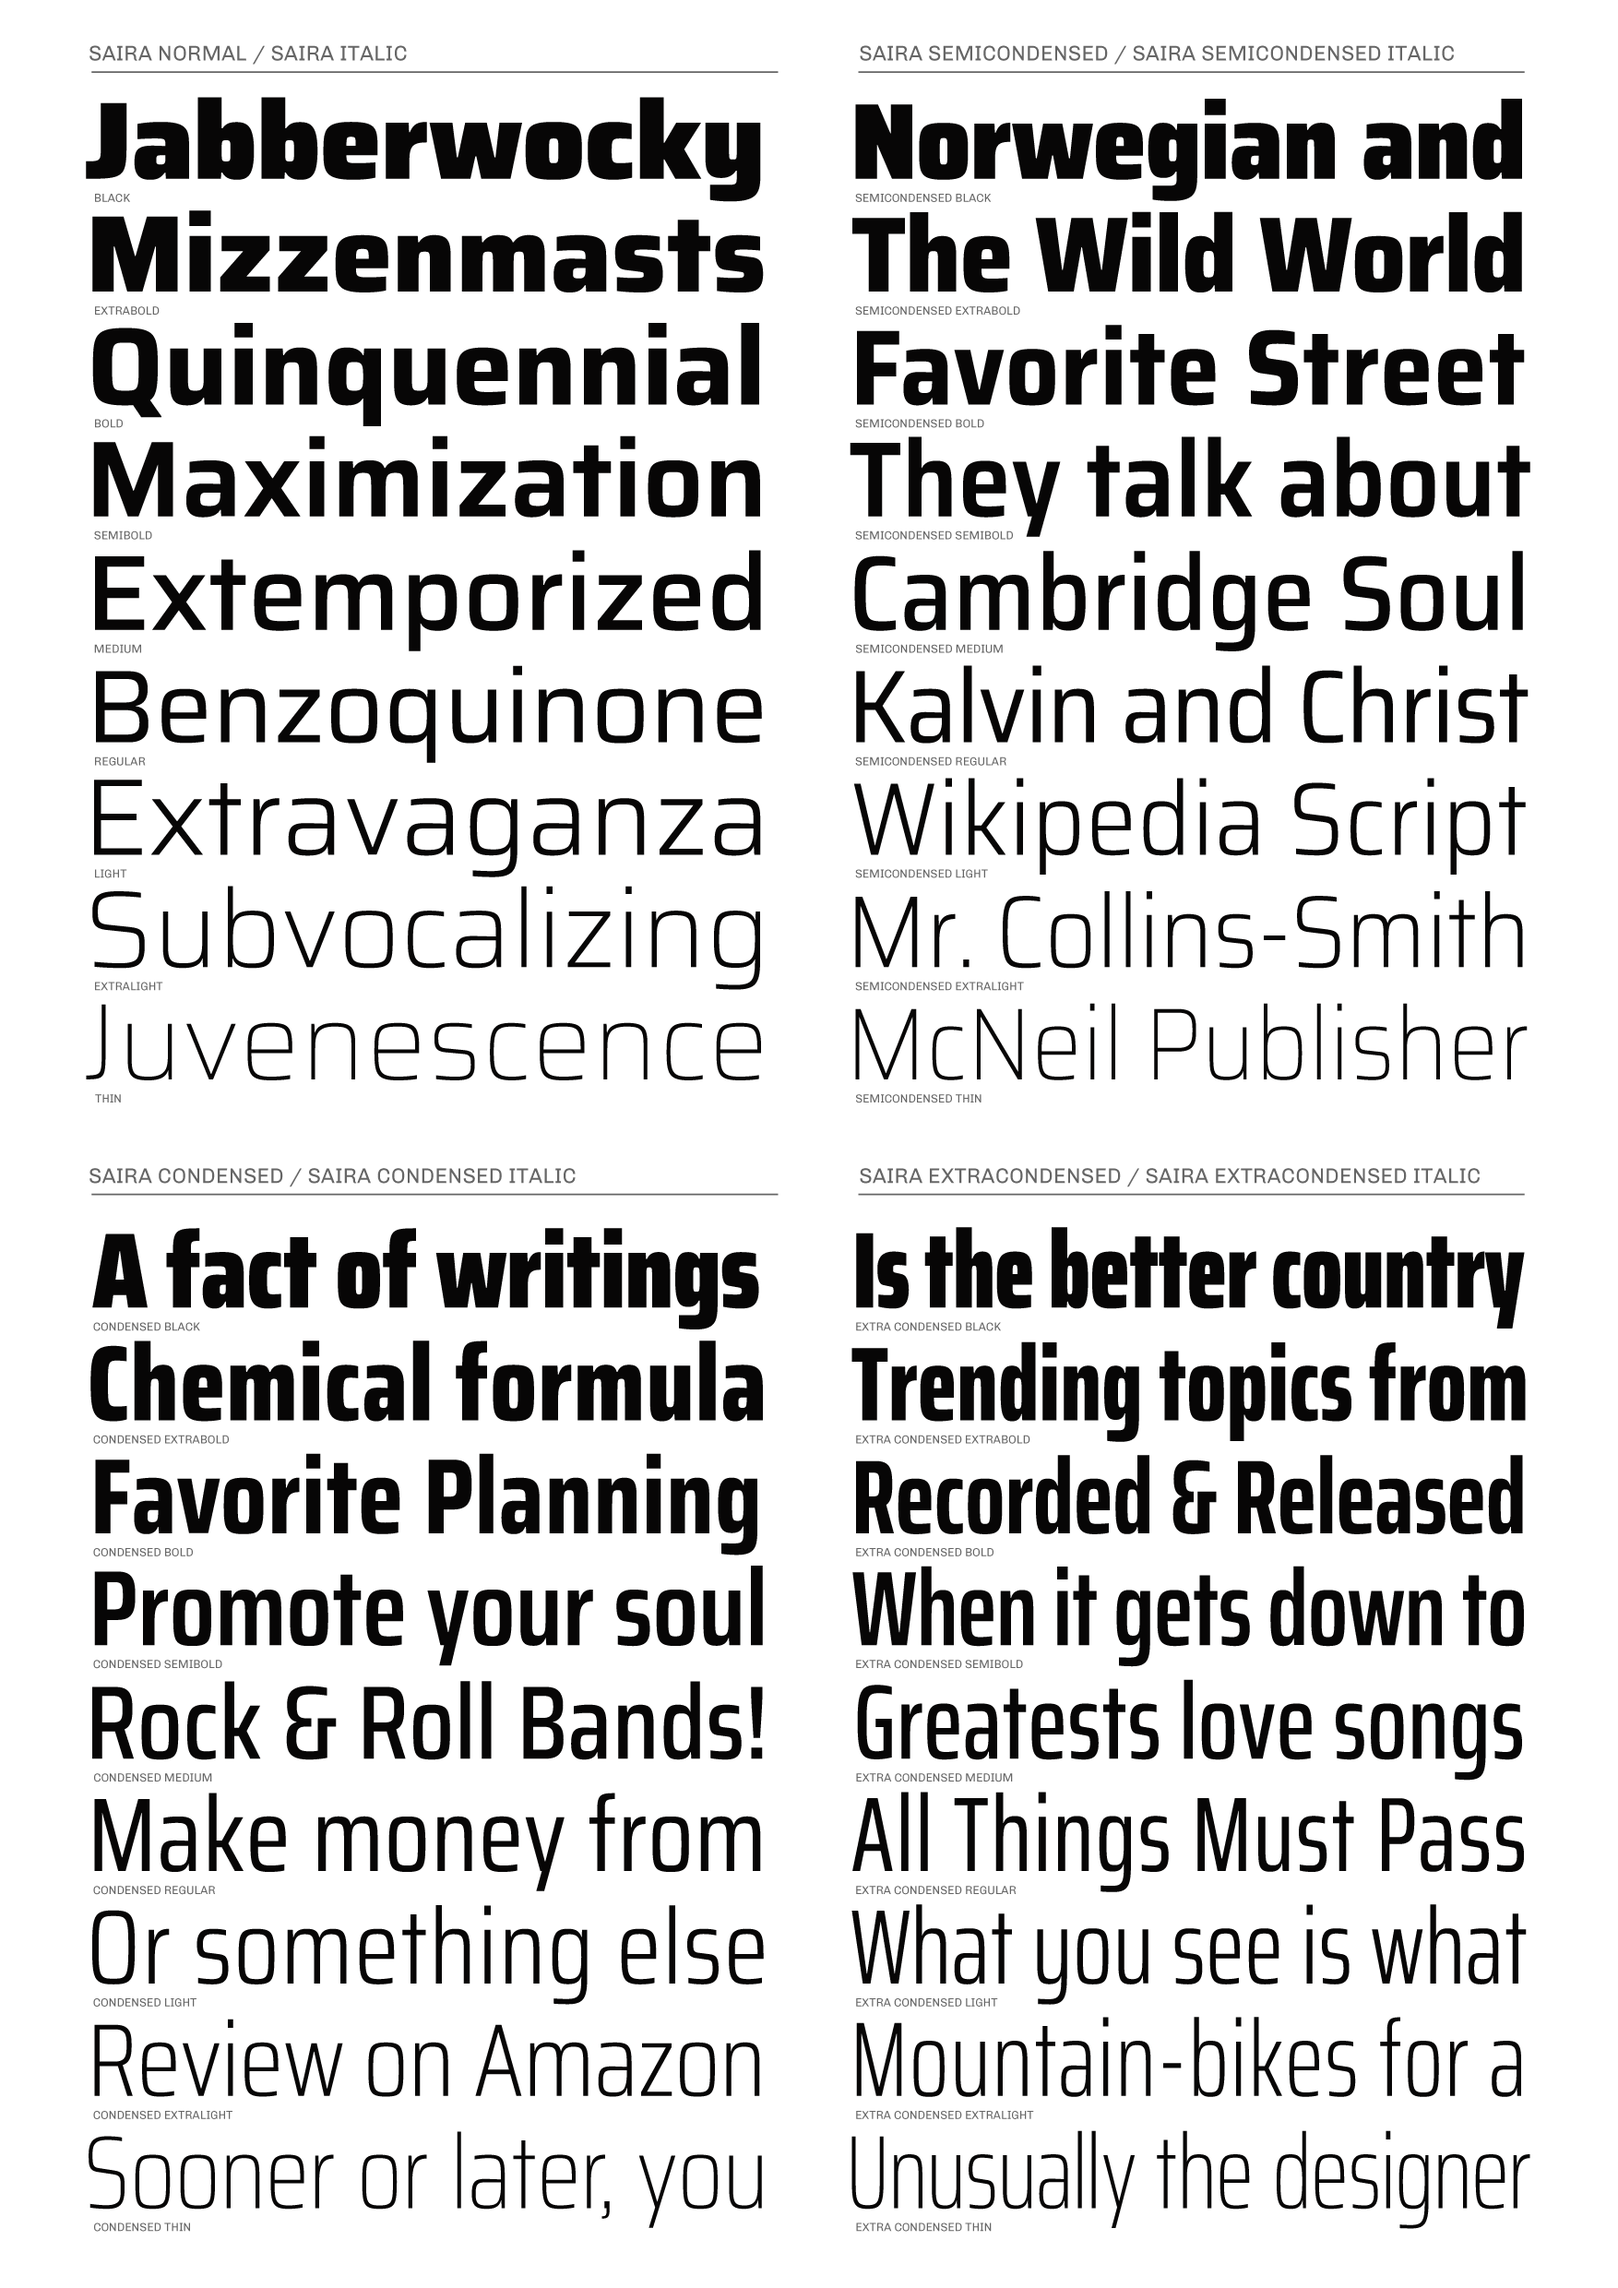
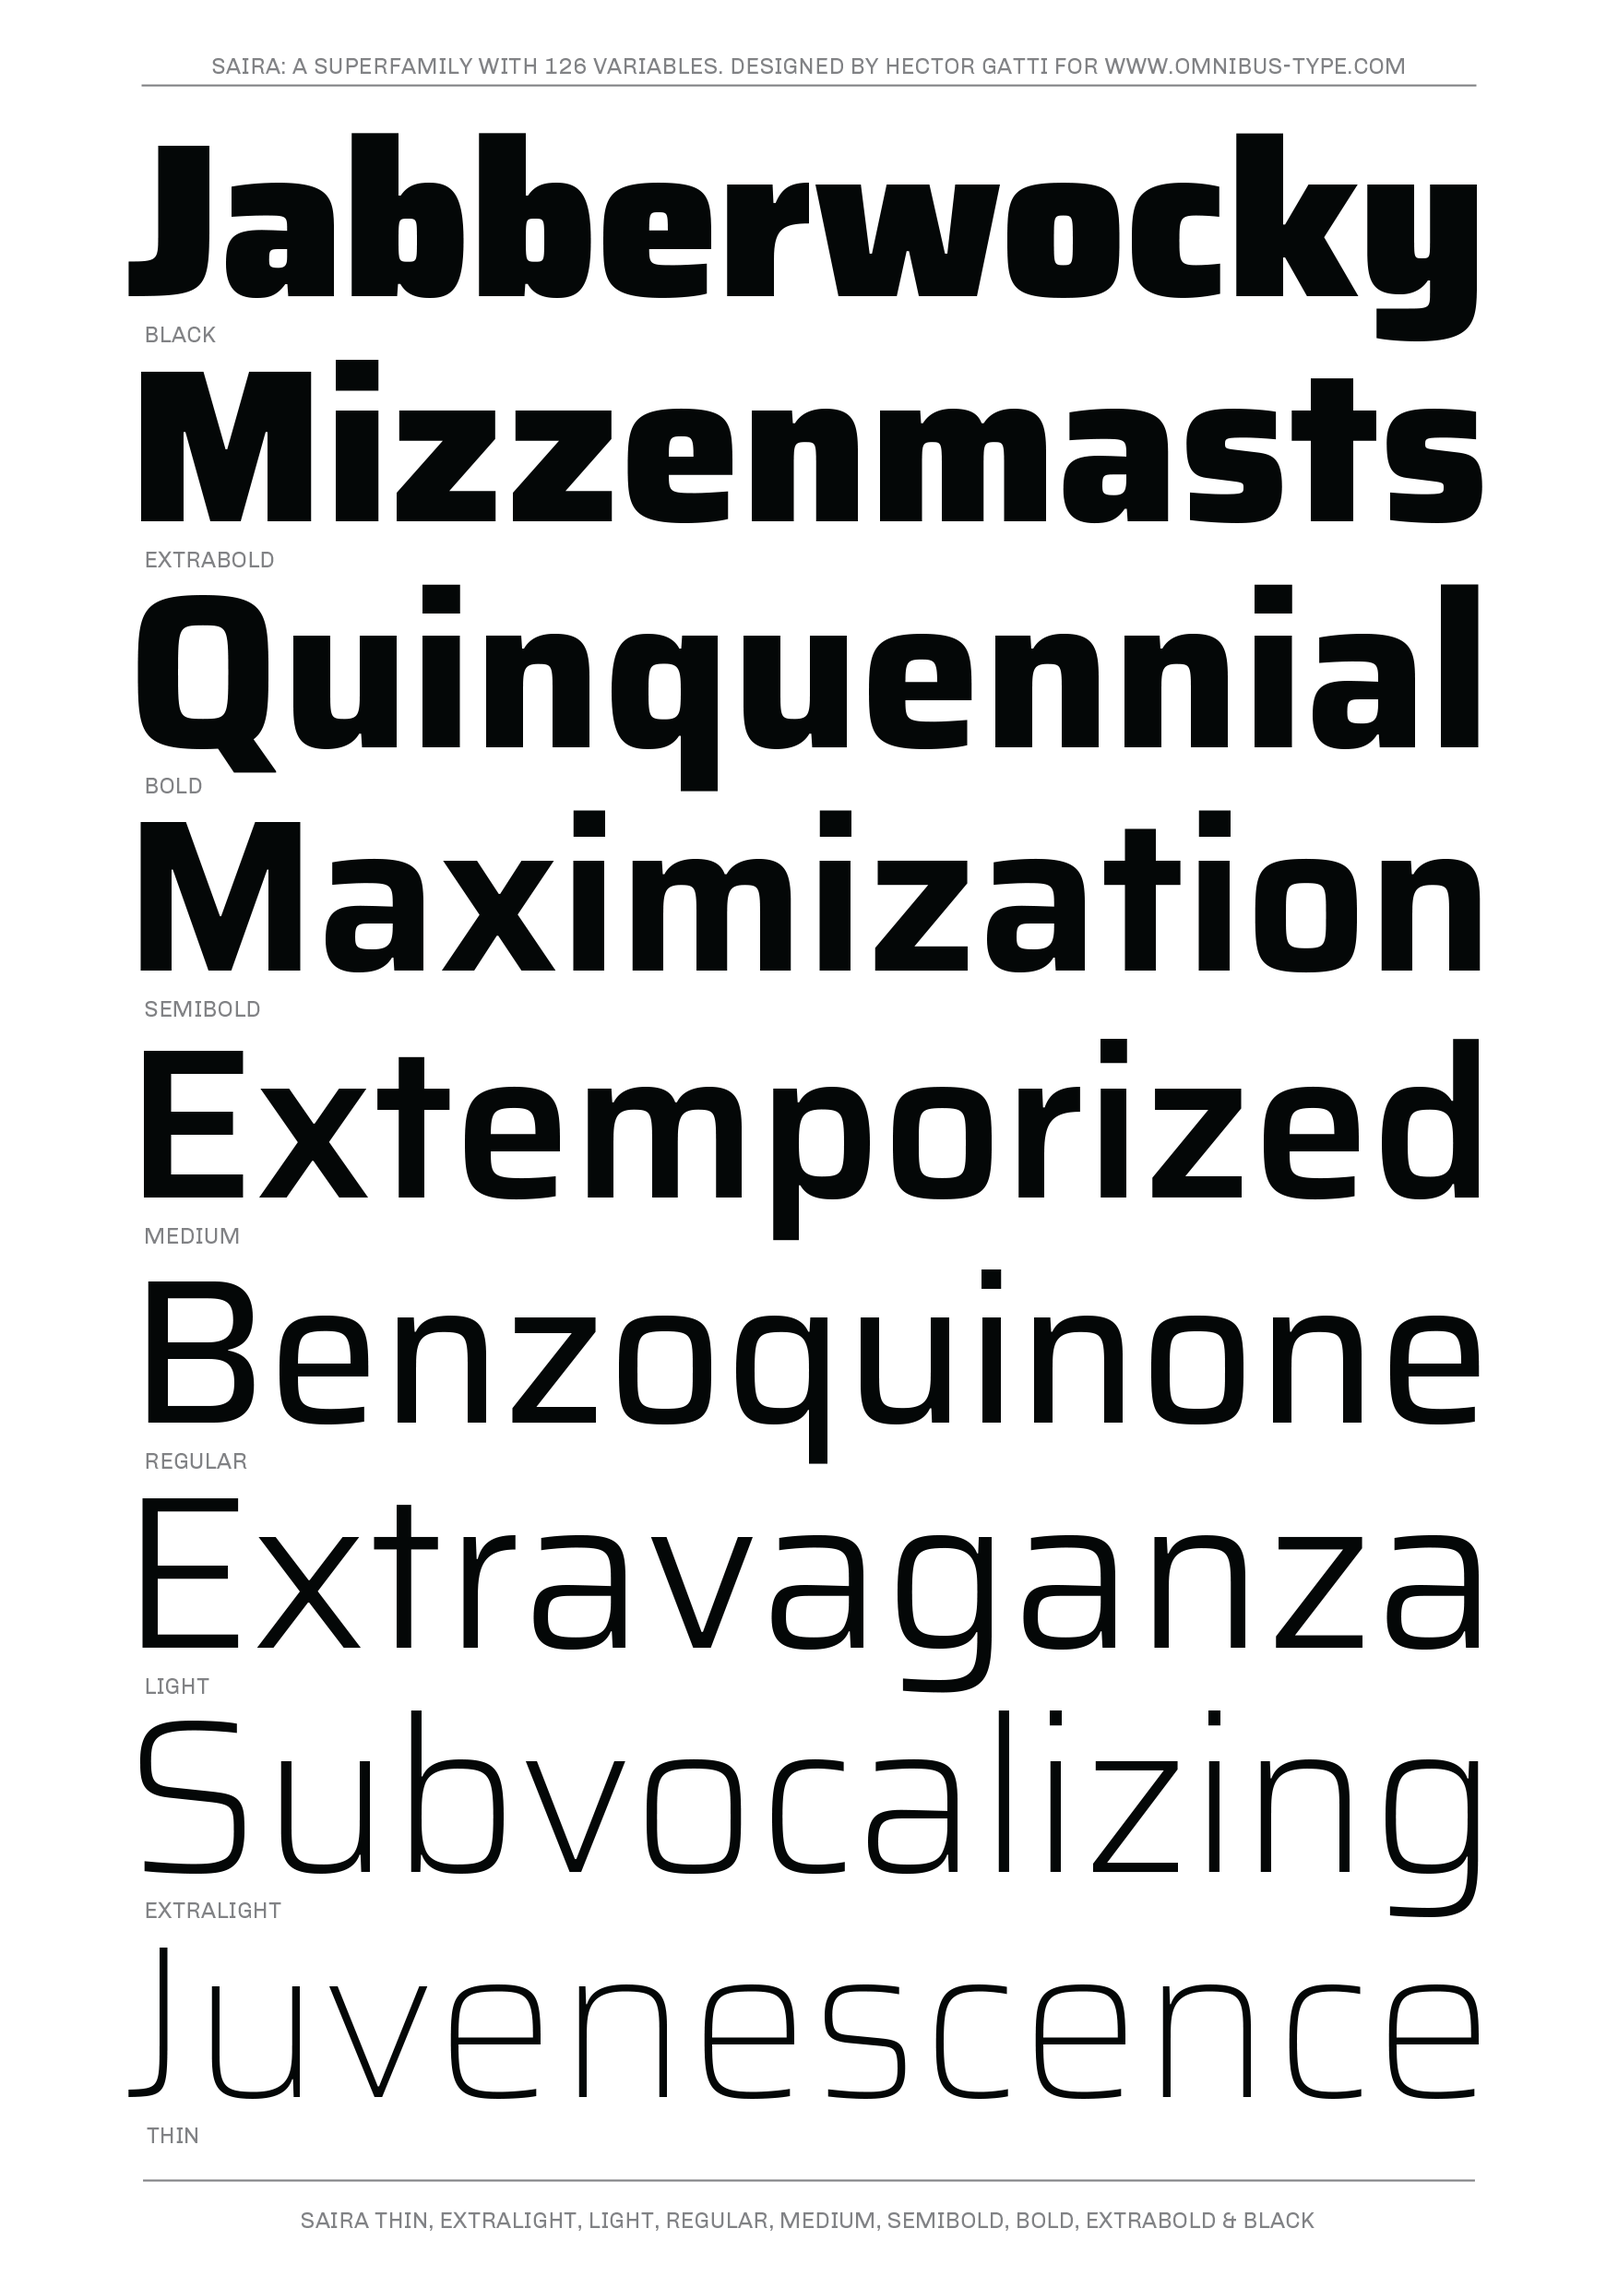
Updating images

diff --git a/README.md b/README.md
@@ -9,7 +9,7 @@ Saira is a contemporary sans serif system, a versatile family of 72 styles (9 di
 
 ![Sample of Saira Family.](Sairas-01.png "Saira")
 ![Sample of Saira Family.](Sairas-02.png "Saira")
-
+![Sample of Saira Family.](Sairas-03.png "Saira")
 
 #### Saira Family contains:
 * Thin / Thin Italic
@@ -56,6 +56,13 @@ This information should be distributed along with the Saira fonts and any deriva
 * Mac Roman
 
 *To contribute to the project contact Omnibus-Type at omnibus.type@gmail.com*
+
+**2020 February 5 (v1.001) Configuring axes (Omnibus-Type)**
+- New variable font
+- Corrected axes for better performance
+– Adding Ultra Condensed style
+- Adding Semi Expanded style
+– Adding Expanded style
 
 **2018 October 29 (v0.072) New Italics (Omnibus-Type)**
 - Updated to GF Latin Plus set
